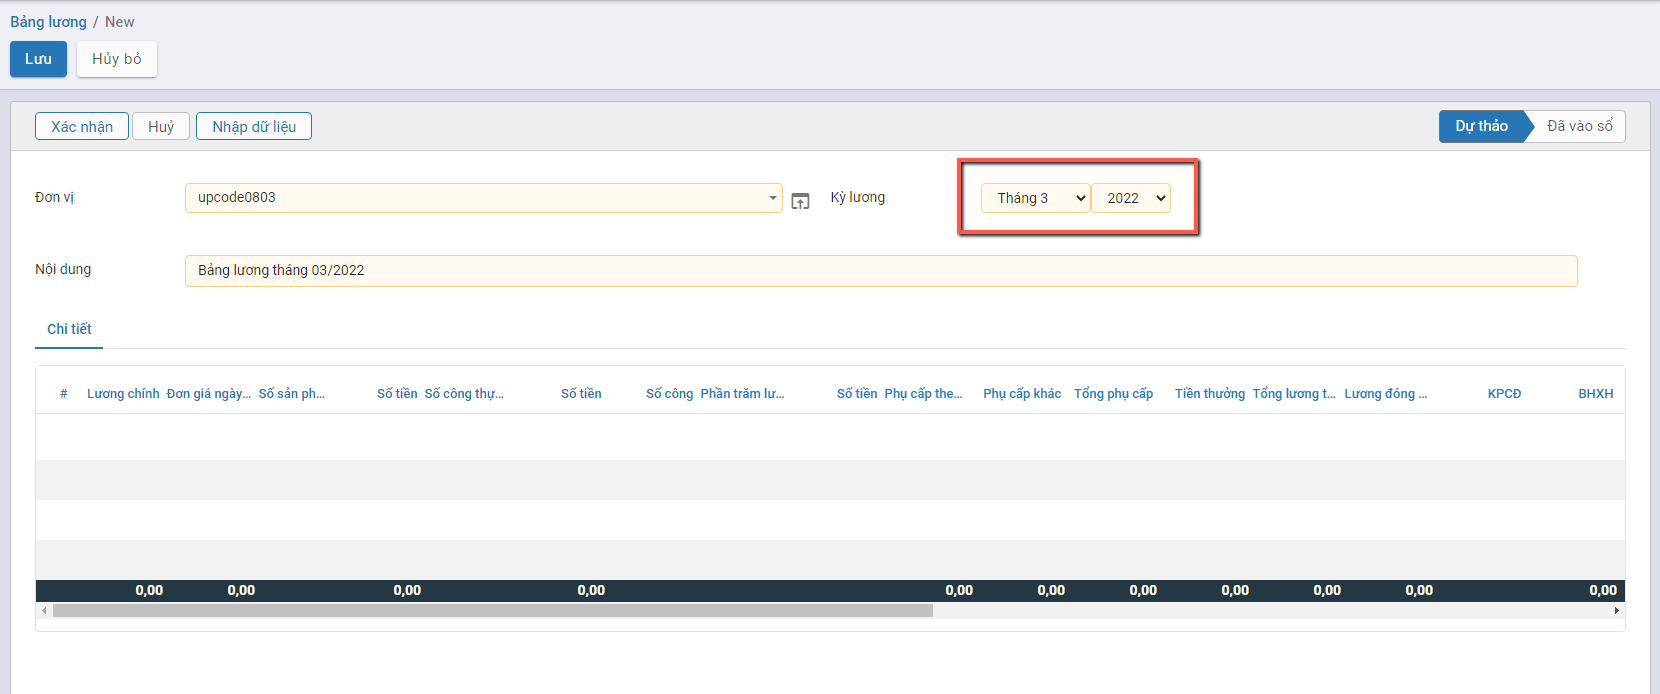
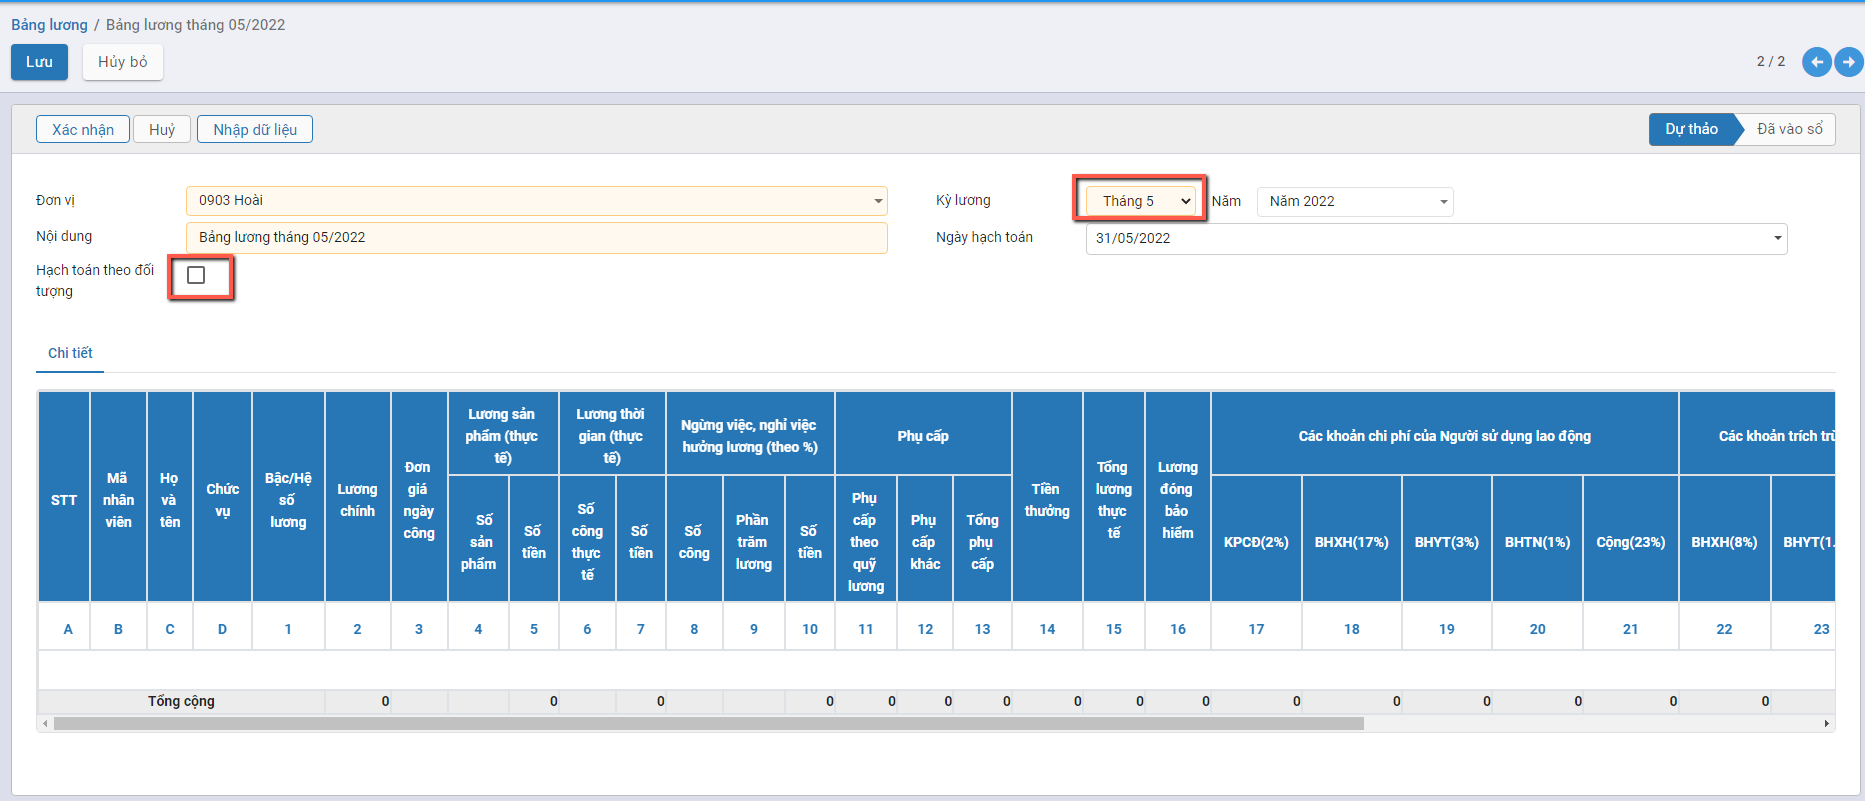
update HDSD TT88 vs project

diff --git a/docs/finance_TT88/fin-ke-toan-tong-hop-88.md b/docs/finance_TT88/fin-ke-toan-tong-hop-88.md
@@ -212,7 +212,10 @@ Hoặc thực hiện **Tìm kiếm** trực tiếp chức năng trên ô tìm ki
 
 **Bước 2**: Nhấn nút **Tạo** ![](images/fin_banhang_taomoi.png)trên chức năng để thực hiện thêm mới bảng lương của tháng, thực hiện khai báo các thông tin cần thiết:
 
-- Chọn Kỳ lương cho Bảng lương
+- Chọn Kỳ lương cho Bảng lương: Hệ thống sẽ mặc định thông tin Kỳ lương của tháng hiện tại
+- Hạch toán theo đối tượng: 
+  - Nếu tích chọn: Tại chức năng **'Thanh toán lương cho nhân viên'**: Sẽ thực hiện thanh toán chi tiết theo từng Nhân viên đã được khai báo tại Bảng lương
+  - Nếu không tích chọn: Tại chức năng **'Thanh toán lương cho nhân viên'**: Hệ thống sẽ thực hiện thanh toán theo Số tiền tổng, không theo từng đối tượng Nhân viên
 
 ![](images/fin_TongHop_bangluong_Tao_TT88.png)
 
@@ -220,7 +223,7 @@ Hoặc thực hiện **Tìm kiếm** trực tiếp chức năng trên ô tìm ki
 
 ![](images/fin_TongHop_bangluong_NhapDuLieu_TT88.png)
 
-**Bước 4**: Để tải biểu mẫu của Bảng lương, Người dùng Nhấn nút **Xuất biểu mẫu**![](images/fin_TongHop_bangluong_XuatBieuMau_buttonXuatBieuMau_TT88.png) : Hệ thống sẽ tải file Biểu mẫu Import bảng lương và người dùng thực hiện Nhập thông tin theo dữ liệu trên Biểu mẫu
+**Bước 4**: Để tải biểu mẫu của Bảng lương, Người dùng Nhấn nút **Tải về mẫu dữ liệu** Hệ thống sẽ tải file Biểu mẫu Import bảng lương và người dùng thực hiện Nhập thông tin theo dữ liệu trên Biểu mẫu
 
 ![](images/fin_TongHop_bangluong_XuatBieuMau_TT88.png)
 
